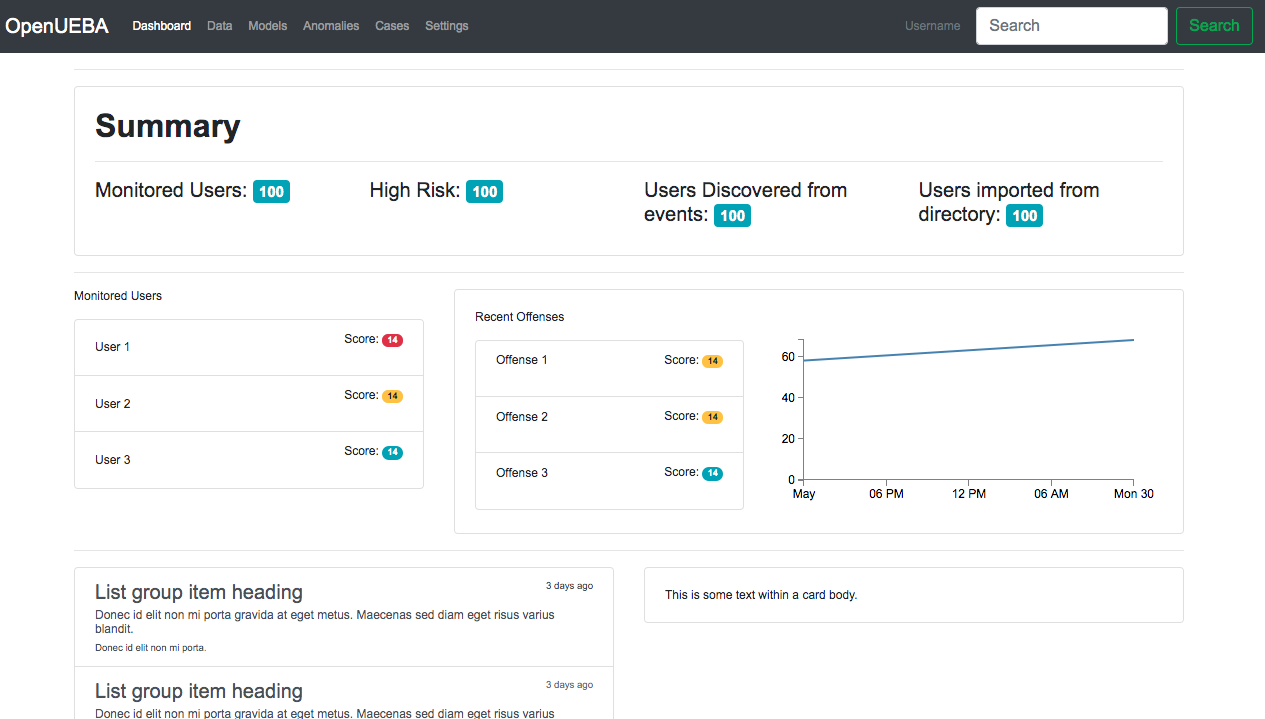
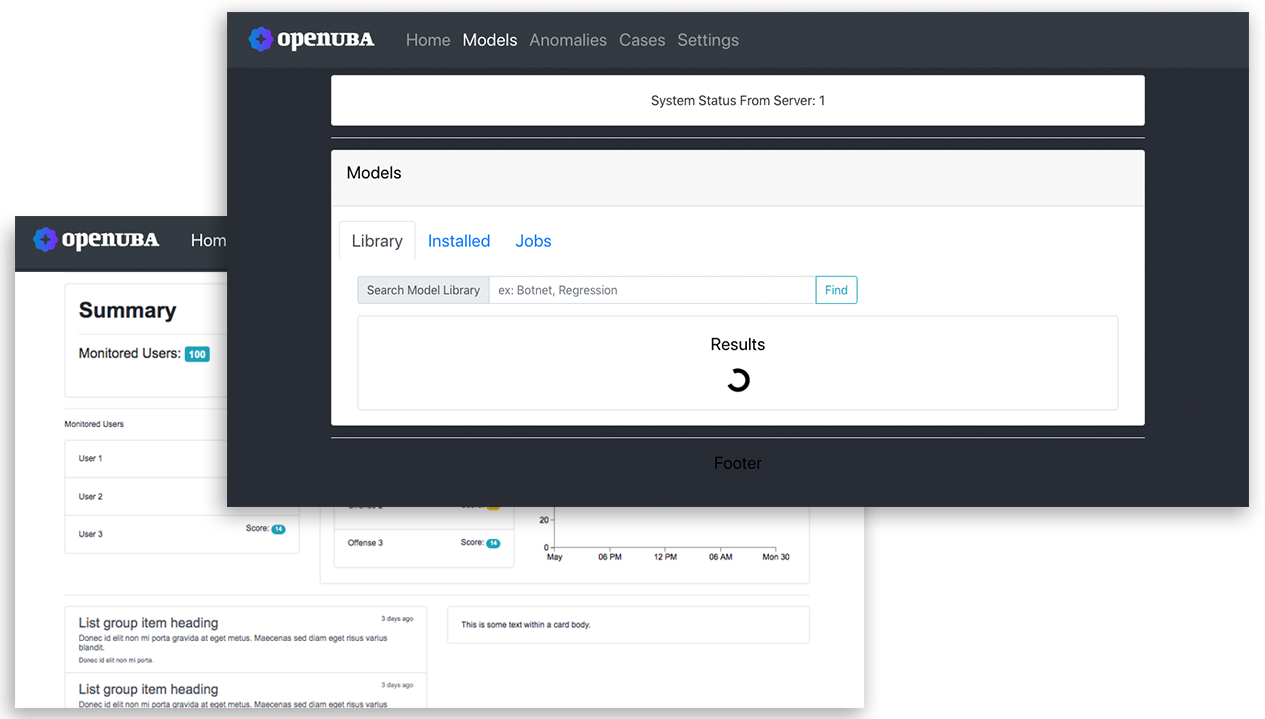
dev/brand update-v

diff --git a/interface/src/Components/Navigation/Navigation.js b/interface/src/Components/Navigation/Navigation.js
@@ -4,7 +4,9 @@ import { NavLink } from 'react-router-dom';
 
 const NavbarBrand = () => (
   <NavLink to='/' className="nav-item nav-link" href="#">
-    <span className="navbar-brand">OpenUBA</span>
+    <span className="navbar-brand">
+      <img src="img/logo_white.png" width="175px" />
+    </span>
   </NavLink>
 );
 

diff --git a/README.md b/README.md
@@ -5,14 +5,7 @@ A robust, and flexible open source User & Entity Behavior Analytics (UEBA) frame
 
 ### White Paper
 [source](https://github.com/GACWR/ouba-paper)
-
-## Problem
-Many UBA platforms typically use a "black box" approach to data science practices, which may work best for security analysts who are not interested in the nuts and bolts of the underlying models being used to generate anomalies, baselines, and cases. These platforms view their models as IP.
-
-# solution
-OUBA takes an "open-model" approach, and is designed for the small subset of security analysts who have authentic curiosity about what models are doing, and how they work under the hood. We believe in the scientific computing community, and its contributions over the years (libraries, toolkits, etc). In security, rule/model transparency is key, for compliance, response/investigation, and decision making.
-
-To take it a step further, OUBA also makes use of a community driven marketplace for models, similar to a plugin-store, where plugins are security models. This marketplace is where users of OUBA can install security models for their own use cases. Model developers can also upload their models, enabling other OUBA users to reuse them, whether for free, or compensation -- the choice is up to the model developer to make.
+[preprint](https://github.com/GACWR/ouba-paper)
 
 *This project is a work in progress and in a pre-alpha state; input and contributions are warmly welcome*
 
@@ -33,6 +26,14 @@ To take it a step further, OUBA also makes use of a community driven marketplace
 | `Top Language` | [![Top language](https://img.shields.io/github/languages/top/GACWR/OpenUBA.svg)](https://github.com/GACWR/OpenUBA) |
 | `Code Size` | [![Code size in bytes](https://img.shields.io/github/languages/code-size/GACWR/OpenUBA.svg)](https://github.com/GACWR/OpenUBA) |
 | `Chat` | ![Discord](https://img.shields.io/discord/683561405928177737) |
+
+## Problem
+Many UBA platforms typically use a "black box" approach to data science practices, which may work best for security analysts who are not interested in the nuts and bolts of the underlying models being used to generate anomalies, baselines, and cases. These platforms view their models as IP.
+
+# solution
+OUBA takes an "open-model" approach, and is designed for the small subset of security analysts who have authentic curiosity about what models are doing, and how they work under the hood. We believe in the scientific computing community, and its contributions over the years (libraries, toolkits, etc). In security, rule/model transparency is key, for compliance, response/investigation, and decision making.
+
+To take it a step further, OUBA also makes use of a community driven marketplace for models, similar to a plugin-store, where plugins are security models. This marketplace is where users of OUBA can install security models for their own use cases. Model developers can also upload their models, enabling other OUBA users to reuse them, whether for free, or compensation -- the choice is up to the model developer to make.
 
 ## Architecture
 <img src="images/framework.jpg" width="750px" />
@@ -99,8 +100,8 @@ To Build a lightweight, SIEM Agnostic, UEBA Framework focused on providing:
   - Flat File
 
 
-# User Interface (placeholder, UI being updated now)
-<img src="images/ui.png" width="750px" />
+# User Interface (under active development)
+<img src="images/ui.png" width="700px" />
 
 The interface is meant to observe system events, and anomalies
 
@@ -115,7 +116,7 @@ The interface is meant to observe system events, and anomalies
 OpenUBA implements a model library purposed with hosting "ready-to-use" models, both developed by us, and the community. For starters, we host the default model repository, similar to any popular package manager (npm, cargo, etc). However, developers can host their own model repository for use in their own instance of OpenUBA.
 
 Model installation currently works as follows:
-<img src="images/model_library_workflow.png" width="750px" />
+<img src="images/ouba-model-library.jpg" width="600px" />
 
 ## Installation/Usage
 Go to [INSTALL.md](https://github.com/GACWR/OpenUBA/blob/master/docs/INSTALL.md)
